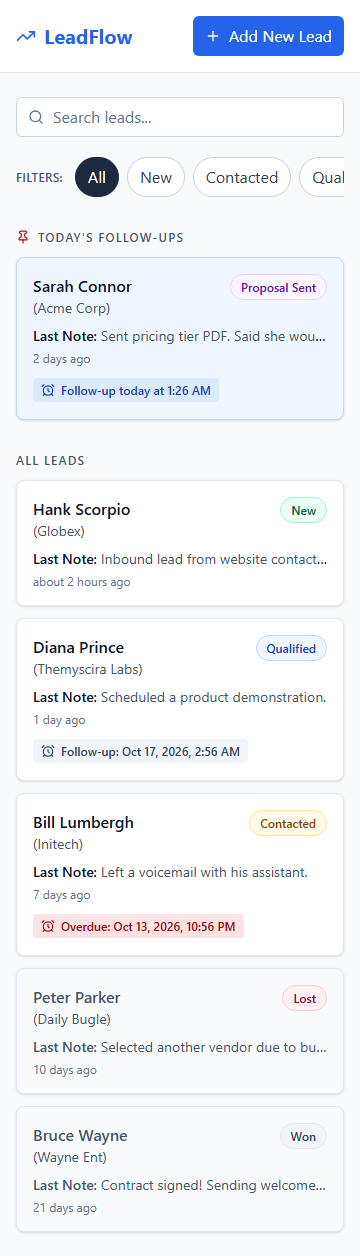
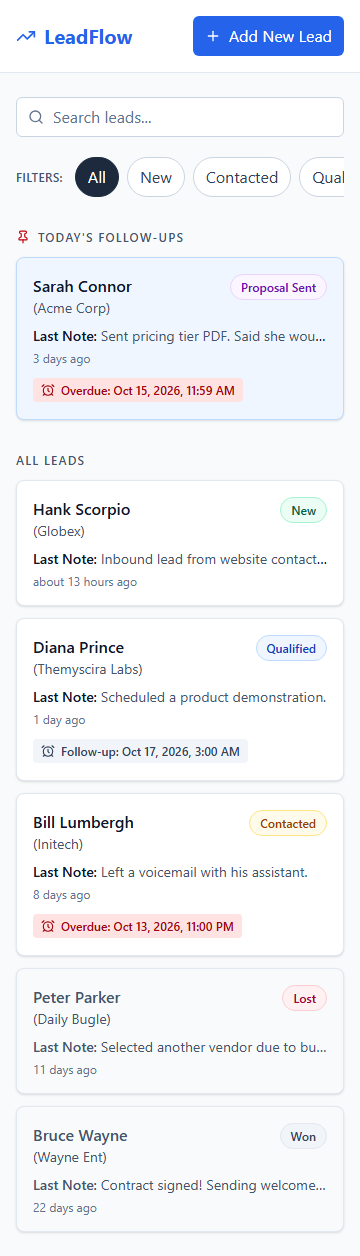
fix: mark past-due follow-ups red without changing pinning

diff --git a/frontend/scripts/screenshots.ts b/frontend/scripts/screenshots.ts
@@ -17,6 +17,23 @@ export async function captureScreenshots(
       viewport: { width: 1280, height: 900 },
       timezoneId: process.env.TZ ?? 'Asia/Kolkata',
     });
+    const noon = await page.evaluate(() => {
+      const now = new Date();
+      now.setHours(12, 0, 0, 0);
+      return now.toISOString();
+    });
+    await page.clock.setFixedTime(new Date(noon));
+    const seeded = leadSchema
+      .array()
+      .parse(await (await page.request.get(`${api}/leads`)).json());
+    const sarah = seeded.find((lead) => lead.name === 'Sarah Connor');
+    if (!sarah) throw new Error('Missing Sarah seed');
+    const updated = await page.request.patch(`${api}/leads/${sarah.id}`, {
+      data: {
+        followUpAt: new Date(new Date(noon).getTime() - 60_000).toISOString(),
+      },
+    });
+    expect(updated.status()).toBe(200);
     await page.goto(url);
     await page
       .getByRole('button', { name: 'View Sarah Connor', exact: true })
@@ -69,22 +86,25 @@ export async function captureScreenshots(
     await page
       .getByRole('button', { name: 'View Bill Lumbergh', exact: true })
       .screenshot({ path: `${dir}/overdue-lead.png` });
-    const colors = await page.getByText(/^Overdue:/).evaluate((element) => {
-      const style = getComputedStyle(element.parentElement ?? element);
-      const canvas = document.createElement('canvas');
-      const ctx = canvas.getContext('2d');
-      if (!ctx) throw new Error('Canvas unavailable');
-      ctx.fillStyle = style.color;
-      ctx.fillRect(0, 0, 1, 1);
-      const foreground = Array.from(ctx.getImageData(0, 0, 1, 1).data);
-      ctx.clearRect(0, 0, 1, 1);
-      ctx.fillStyle = style.backgroundColor;
-      ctx.fillRect(0, 0, 1, 1);
-      return {
-        foreground,
-        background: Array.from(ctx.getImageData(0, 0, 1, 1).data),
-      };
-    });
+    const colors = await page
+      .getByRole('button', { name: 'View Bill Lumbergh', exact: true })
+      .getByText(/^Overdue:/)
+      .evaluate((element) => {
+        const style = getComputedStyle(element.parentElement ?? element);
+        const canvas = document.createElement('canvas');
+        const ctx = canvas.getContext('2d');
+        if (!ctx) throw new Error('Canvas unavailable');
+        ctx.fillStyle = style.color;
+        ctx.fillRect(0, 0, 1, 1);
+        const foreground = Array.from(ctx.getImageData(0, 0, 1, 1).data);
+        ctx.clearRect(0, 0, 1, 1);
+        ctx.fillStyle = style.backgroundColor;
+        ctx.fillRect(0, 0, 1, 1);
+        return {
+          foreground,
+          background: Array.from(ctx.getImageData(0, 0, 1, 1).data),
+        };
+      });
     const luminance = (values: number[]) =>
       values
         .slice(0, 3)

diff --git a/frontend/tests/followUp.test.ts b/frontend/tests/followUp.test.ts
@@ -1,7 +1,37 @@
 import { expect, it } from 'vitest';
-import { classify, partition } from '@/features/leads/lib/followUp';
+import { classify, isPastDue, partition } from '@/features/leads/lib/followUp';
 
 const now = new Date(2026, 9, 14, 12);
+it('uses strict elapsed-time overdue boundaries independently of today membership', () => {
+  expect(isPastDue(now.toISOString(), now)).toBe(false);
+  expect(isPastDue(new Date(now.getTime() - 1).toISOString(), now)).toBe(true);
+  const minuteAgo = new Date(now.getTime() - 60_000).toISOString();
+  expect(isPastDue(minuteAgo, now)).toBe(true);
+  expect(classify(minuteAgo, now)).toBe('today');
+  expect(isPastDue(new Date(2026, 9, 14).toISOString(), now)).toBe(true);
+  expect(isPastDue(new Date(2026, 9, 14, 23, 59).toISOString(), now)).toBe(
+    false,
+  );
+  expect(isPastDue(new Date(2026, 9, 15).toISOString(), now)).toBe(false);
+  expect(isPastDue(null, now)).toBe(false);
+  expect(isPastDue('invalid', now)).toBe(false);
+  const midnight = new Date(2026, 9, 14);
+  expect(isPastDue(midnight.toISOString(), midnight)).toBe(false);
+  expect(
+    isPastDue(new Date(midnight.getTime() - 1).toISOString(), midnight),
+  ).toBe(true);
+});
+it('compares instants across skipped and repeated DST hours', () => {
+  expect(
+    isPastDue('2026-03-08T06:59:00Z', new Date('2026-03-08T07:00:00Z')),
+  ).toBe(true);
+  expect(
+    isPastDue('2026-11-01T05:30:00Z', new Date('2026-11-01T06:15:00Z')),
+  ).toBe(true);
+  expect(
+    classify('2026-11-01T05:30:00Z', new Date('2026-11-01T06:15:00Z')),
+  ).toBe('today');
+});
 it('runs DST assertions in a timezone with 23- and 25-hour days', () => {
   expect(new Date(2026, 2, 9).getTime() - new Date(2026, 2, 8).getTime()).toBe(
     23 * 3600000,
@@ -54,6 +84,22 @@ it.each([new Date(2026, 2, 8, 12), new Date(2026, 10, 1, 12)])(
     );
     expect(classify(end.toISOString(), date)).toBe('today');
     expect(classify(next.toISOString(), date)).toBe('upcoming');
+    expect(isPastDue(end.toISOString(), date)).toBe(false);
+    expect(isPastDue(next.toISOString(), date)).toBe(false);
+    const minuteAgo = new Date(date.getTime() - 60_000).toISOString();
+    expect(isPastDue(minuteAgo, date)).toBe(true);
+    expect(classify(minuteAgo, date)).toBe('today');
+    expect(
+      isPastDue(
+        new Date(
+          date.getFullYear(),
+          date.getMonth(),
+          date.getDate(),
+        ).toISOString(),
+        date,
+      ),
+    ).toBe(true);
+    expect(isPastDue(date.toISOString(), date)).toBe(false);
   },
 );
 it('moves a previous today follow-up to overdue after midnight', () => {

diff --git a/frontend/tests/integration.test.tsx b/frontend/tests/integration.test.tsx
@@ -1,14 +1,17 @@
 import { fireEvent, screen, waitFor, within } from '@testing-library/react';
 import userEvent from '@testing-library/user-event';
-import { expect, it } from 'vitest';
+import { afterEach, expect, it, vi } from 'vitest';
 import { delay, http, HttpResponse } from 'msw';
 import { renderScreen } from './renderScreen';
 import { base, server, leads, listRequests } from './server';
 import type { Lead } from '@/features/leads/api/types';
-import { localDateValue } from '@/features/leads/lib/format';
+import { absoluteTime, localDateValue } from '@/features/leads/lib/format';
 const sarahId = '507f1f77bcf86cd799439011';
+afterEach(() => vi.useRealTimers());
 
-it('opens the timeline and moves a note follow-up into today without reload', async () => {
+it('moves a past-due note follow-up into today immediately with a red reminder', async () => {
+  vi.useFakeTimers({ toFake: ['Date'] });
+  vi.setSystemTime(new Date(2026, 9, 14, 12));
   const user = userEvent.setup();
   const { client } = renderScreen();
   await user.click(
@@ -25,7 +28,7 @@ it('opens the timeline and moves a note follow-up into today without reload', as
     target: { value: localDateValue(new Date()) },
   });
   fireEvent.change(within(dialog).getByLabelText('Follow-up time'), {
-    target: { value: '14:00' },
+    target: { value: '11:59' },
   });
   server.use(
     http.get(`${base}/leads`, async () => {
@@ -42,11 +45,16 @@ it('opens the timeline and moves a note follow-up into today without reload', as
     ).toBe('Morning follow-up'),
   );
   await user.keyboard('{Escape}');
-  expect(
-    within(
-      screen.getByRole('region', { name: "Today's follow-ups" }),
-    ).getByRole('button', { name: 'View Sarah Connor' }),
-  ).toBeInTheDocument();
+  const card = within(
+    screen.getByRole('region', { name: "Today's follow-ups" }),
+  ).getByRole('button', { name: 'View Sarah Connor' });
+  const reminder = `Overdue: ${absoluteTime(new Date(2026, 9, 14, 11, 59).toISOString())}`;
+  expect(card).toBeInTheDocument();
+  expect(within(card).getByText(reminder).parentElement).toHaveClass(
+    'bg-red-100',
+    'text-red-800',
+  );
+  expect(card).toHaveAccessibleDescription(reminder);
   expect(window.location.search).not.toContain('lead=');
 });
 

diff --git a/frontend/src/features/leads/components/FollowUpChip.tsx b/frontend/src/features/leads/components/FollowUpChip.tsx
@@ -1,5 +1,5 @@
 import { AlarmClock } from 'lucide-react';
-import { classify } from '../lib/followUp';
+import { classify, isPastDue } from '../lib/followUp';
 import { absoluteTime, timeOf } from '../lib/format';
 import { cn } from '@/lib/cn';
 export function FollowUpChip({
@@ -10,24 +10,27 @@ export function FollowUpChip({
   now: Date;
 }) {
   const kind = classify(value, now);
+  const pastDue = isPastDue(value, now);
   if (!value || kind === 'none') return null;
   return (
     <span
       title={absoluteTime(value)}
       className={cn(
         'inline-flex max-w-full items-center gap-1.5 rounded px-2 py-1 text-xs font-medium',
-        kind === 'today'
-          ? 'bg-blue-100 text-blue-800'
-          : kind === 'overdue'
-            ? 'bg-red-100 text-red-800'
+        pastDue
+          ? 'bg-red-100 text-red-800'
+          : kind === 'today'
+            ? 'bg-blue-100 text-blue-800'
             : 'bg-slate-100 text-slate-700',
       )}
     >
       <AlarmClock aria-hidden="true" className="size-3.5 shrink-0" />
       <span>
-        {kind === 'today'
-          ? `Follow-up today at ${timeOf(value)}`
-          : `${kind === 'overdue' ? 'Overdue' : 'Follow-up'}: ${absoluteTime(value)}`}
+        {pastDue
+          ? `Overdue: ${absoluteTime(value)}`
+          : kind === 'today'
+            ? `Follow-up today at ${timeOf(value)}`
+            : `Follow-up: ${absoluteTime(value)}`}
       </span>
     </span>
   );

diff --git a/frontend/tests/followUpChip.test.tsx b/frontend/tests/followUpChip.test.tsx
@@ -1,0 +1,26 @@
+import { render, screen } from '@testing-library/react';
+import { expect, it } from 'vitest';
+import { FollowUpChip } from '@/features/leads/components/FollowUpChip';
+import { absoluteTime, timeOf } from '@/features/leads/lib/format';
+
+const now = new Date(2026, 9, 14, 12);
+it.each([
+  { date: new Date(2026, 9, 14, 11, 59), kind: 'overdue', color: 'red' },
+  { date: new Date(2026, 9, 13, 23, 59), kind: 'overdue', color: 'red' },
+  { date: now, kind: 'today', color: 'blue' },
+  { date: new Date(2026, 9, 14, 23, 59), kind: 'today', color: 'blue' },
+  { date: new Date(2026, 9, 15), kind: 'upcoming', color: 'slate' },
+])('shows $kind styling for $date', ({ date, kind, color }) => {
+  const value = date.toISOString();
+  const label =
+    kind === 'overdue'
+      ? `Overdue: ${absoluteTime(value)}`
+      : kind === 'today'
+        ? `Follow-up today at ${timeOf(value)}`
+        : `Follow-up: ${absoluteTime(value)}`;
+  render(<FollowUpChip value={value} now={now} />);
+  expect(screen.getByText(label).parentElement).toHaveClass(
+    `bg-${color}-100`,
+    `text-${color}-${color === 'slate' ? '700' : '800'}`,
+  );
+});

diff --git a/frontend/src/features/leads/components/LeadCard.tsx b/frontend/src/features/leads/components/LeadCard.tsx
@@ -19,6 +19,7 @@ export function LeadCard({
       data-lead-id={lead.id}
       onClick={() => onOpen(lead.id)}
       aria-label={`View ${lead.name}`}
+      aria-describedby={lead.followUpAt ? `follow-up-${lead.id}` : undefined}
       className={cn(
         'w-full rounded-lg border p-4 text-left shadow-sm transition-colors focus-visible:outline-none focus-visible:ring-2 focus-visible:ring-brand-600 focus-visible:ring-offset-2 sm:p-5',
         today
@@ -64,7 +65,7 @@ export function LeadCard({
         )}
       </div>
       {lead.followUpAt && (
-        <div className="mt-3">
+        <div id={`follow-up-${lead.id}`} className="mt-3">
           <FollowUpChip value={lead.followUpAt} now={now} />
         </div>
       )}

diff --git a/frontend/src/features/leads/lib/followUp.ts b/frontend/src/features/leads/lib/followUp.ts
@@ -1,4 +1,8 @@
 export type FollowUpKind = 'today' | 'overdue' | 'upcoming' | 'none';
+export function isPastDue(followUpAt: string | null, now: Date): boolean {
+  if (!followUpAt) return false;
+  return new Date(followUpAt).getTime() < now.getTime();
+}
 export function classify(followUpAt: string | null, now: Date): FollowUpKind {
   if (!followUpAt) return 'none';
   const time = new Date(followUpAt).getTime();

diff --git a/README.md b/README.md
@@ -193,7 +193,7 @@ docs/codex/               implementation brief
 ## Assumptions
 
 - I store and transport UTC timestamps and calculate follow-up buckets in the browser's local timezone.
-- I show today's follow-ups only in the pinned section, sorted by time; the rest retain API order. Earlier times today remain pinned, and overdue means a previous day.
+- I show today's follow-ups only in the pinned section, sorted by time; the rest retain API order. Earlier times today remain pinned and show a red overdue chip. A follow-up is overdue strictly before the current instant; exactly now is not overdue.
 - I preserve a lead's follow-up when a note omits `followUpAt`; explicit `null` clears it.
 - I keep the list unpaginated because I expect a small assessment dataset.
 - I use compensated writes instead of transactions so the backend works with standalone MongoDB.
